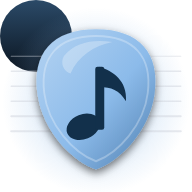
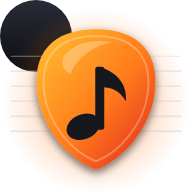
Add files via upload

diff --git a/geigenpult.html b/geigenpult.html
@@ -82,6 +82,13 @@
   input[type=checkbox],input[type=radio]{width:18px;height:18px;accent-color:var(--accent)}
   .notice{padding:10px 12px;border-radius:8px;border:1px solid var(--line);background:var(--bg);font-size:.9rem;overflow-wrap:anywhere}
   .notice.bad{border-color:var(--bad);color:var(--bad)}
+  .exgoal{padding:10px 12px;border-radius:8px;border:1px solid var(--accent);background:var(--surface);display:grid;gap:6px}
+  .exgoal .t{font-weight:600}.exgoal .dots{display:flex;gap:6px;flex-wrap:wrap}
+  .exgoal .dot{width:26px;height:26px;border-radius:50%;border:2px solid var(--line);display:grid;place-items:center;font-size:.8rem;font-weight:700}
+  .exgoal .dot.on{background:var(--ok);border-color:var(--ok);color:var(--on-accent)}
+  .exgoal .w{font-size:.88rem;color:var(--muted)}
+  .exgoal.done{border-color:var(--ok)}
+  body.pult .exgoal{display:none!important}
   .grp{display:flex;align-items:center;gap:8px;min-width:0;flex-wrap:wrap}
   .grp .lab,.lab{font-size:.8rem;color:var(--muted)}
   .settings{display:grid;grid-template-columns:repeat(auto-fit,minmax(230px,1fr));gap:12px 18px}
@@ -218,7 +225,9 @@
   /* Vollbild-Pult */
   body.pult{overflow:hidden;padding-inline:0}
   body.pult .wrap{max-width:none;padding:0;gap:0}
-  body.pult .wrap>*:not(#sec-player){display:none!important}
+  body.pult .wrap>*:not(#tab-play){display:none!important}
+  body.pult #tab-play>*:not(#sec-player){display:none!important}
+  body.pult #mknav,body.pult #mksub{display:none!important}
   body.pult #sec-player>*:not(#paper):not(#hud):not(#msg):not(#pult-exit){display:none!important}
   body.pult #paper{position:fixed;inset:0;z-index:50;margin:0;border:0;border-radius:0;box-shadow:none;padding:14px 18px 84px;min-height:0;overflow:hidden}
   body.pult #stage{transition:none}
@@ -228,7 +237,7 @@
   body.pult #hud .bpm{min-width:6em}
   body.pult .adv{display:none}
   body.pult .pultonly{display:flex}
-  body.pult #msg:not([hidden]){display:block;position:fixed;top:12px;left:50%;transform:translateX(-50%);z-index:70;width:max-content;max-width:min(680px,calc(100vw - 120px));box-shadow:0 4px 16px rgba(0,0,0,.25);background:var(--surface);color:var(--ink)}
+  body.pult #msg:not([hidden]){display:block;position:fixed;top:12px;left:12px;z-index:70;width:max-content;max-width:min(680px,calc(100vw - 190px));box-shadow:0 4px 16px rgba(0,0,0,.25);background:var(--surface);color:var(--ink)}
   body.pult #msg.bad{color:var(--bad)}
   #pult-exit{display:none}
   body.pult #pult-exit{display:inline-flex;position:fixed;top:12px;right:12px;z-index:61;transition:opacity .25s}
@@ -484,6 +493,7 @@
     <p class="hint" id="modehint"></p>
     <div class="legend" id="legend" hidden><span class="h">getroffen</span><span class="u">zu hoch</span><span class="d">zu tief</span><span class="r">erst nach Fehlversuch</span><span class="m">verfehlt</span></div>
     <div id="msg" class="notice" hidden></div>
+    <div id="exgoal" class="exgoal" hidden></div>
     <details class="card" id="fbcard" open>
       <summary>Griffbrett: wo spiele ich diesen Ton?</summary>
       <div id="fb-svg"></div>
@@ -1853,7 +1863,7 @@ function relayout(force){
   if(force||Math.abs($('#osmd').clientWidth-S.renderW)>30)renderScore(q);
   else{layoutPages();S.viewKey='';S.lastSys=-1;if(S.events.length)drawCursor(S.events[S.idx].q)}
 }
-window.addEventListener('resize',function(){clearTimeout(rt);rt=setTimeout(function(){relayout(false)},300)});
+window.addEventListener('resize',function(){clearTimeout(rt);rt=setTimeout(function(){if(typeof hudPad==='function')hudPad();relayout(false)},300)});
 
 /* ───────── Vollbild-Pult ───────── */
 var hudT=0;
@@ -1878,8 +1888,16 @@ function setPgMode(m){
 $('#pg-mode').onclick=function(){setPgMode(S.pgMode==='page'?'scroll':'page')};
 $('#pgsel').addEventListener('change',function(e){setPgMode(e.target.value)});
 
+function hudPad(){
+  var p=$('#paper'),h=$('#hud');
+  if(!S.pult){p.style.paddingBottom='';return false}
+  var want=Math.ceil(h.getBoundingClientRect().height)+26+'px';
+  if(p.style.paddingBottom===want)return false;
+  p.style.paddingBottom=want;return true;
+}
+if(window.ResizeObserver){try{new ResizeObserver(function(){if(hudPad()){clearTimeout(hudPad.t);hudPad.t=setTimeout(function(){relayout(false)},120)}}).observe($('#hud'))}catch(e){}}
 function afterPultChange(){
-  hudPoke();
+  hudPad();hudPoke();
   setTimeout(function(){relayout(true)},260);
 }
 async function enterPult(){
@@ -2308,7 +2326,7 @@ applyKey();
 
 /* ───────── Lernen: Fortschritt, Lehrplan, Quiz, Tagesplan, Coach (nur App-Version) ───────── */
 var P=lsGet('gp.prog',{});
-['lessons','badges','quiz','goalDone','dq','best','rec','sc'].forEach(function(k){if(!P[k]||typeof P[k]!=='object')P[k]={}});
+['lessons','badges','quiz','goalDone','dq','best','rec','sc','reps'].forEach(function(k){if(!P[k]||typeof P[k]!=='object')P[k]={}});
 P.xp=P.xp||0;P.goal=P.goal||15;
 function saveP(){lsSet('gp.prog',P)}
 var LVT=['Leersaite','Anfänger','Tonleiter-Läufer','Taktgeber','Saitenspringer','Bogenführer','Melodiespieler','Tonartenkenner','Ensemble-Geiger','Virtuose in spe'];
@@ -2437,6 +2455,21 @@ var LESSONS=[
 ];
 function lessonBy(id){return LESSONS.find(function(l){return l.id===id})}
 function nextLesson(){return LESSONS.find(function(l){return !P.lessons[l.id]})}
+function exGoal(id){var l=lessonBy(id);return (l&&l.goal)||3}
+function exBanner(id,msg,fin){
+  var el=$('#exgoal');if(!el)return;
+  if(!id){el.hidden=true;return}
+  var l=lessonBy(id),g=exGoal(id),n=Math.min(g,P.reps[id]||0),done=!!P.lessons[id],h='';
+  for(var i=0;i<g;i++)h+='<span class="dot'+((done||i<n)?' on':'')+'">'+((done||i<n)?'✓':(i+1))+'</span>';
+  var nx=nextLesson();
+  el.className='exgoal'+(done?' done':'');
+  el.innerHTML='<div class="t">'+(done?'✓ Lektion geschafft: ':'Aufgabe: ')+esc(l.t)+'</div>'
+   +'<div class="dots" aria-label="'+(done?g:n)+' von '+g+' Durchgängen">'+h+'</div>'
+   +'<div class="w">'+esc(msg||(done?'Gut gemacht.':'Spiele die Übung '+g+'-mal sauber durch (mindestens die Hälfte der Töne beim ersten Versuch richtig). Fertig: '+n+' von '+g+'.'))+'</div>'
+   +(done&&nx?'<div class="row"><button class="btn small primary" type="button" id="ex-next" data-l="'+nx.id+'">Nächste Lektion: '+esc(nx.t)+'</button></div>':'')
+   +(done&&!nx?'<div class="w">Das war die letzte Lektion. Stark!</div>':'');
+  el.hidden=false;
+}
 function completeLesson(id,half,why){
   if(P.lessons[id]||!lessonBy(id))return false;
   P.lessons[id]={d:today(),half:!!half};saveP();addXp(half?20:40,'Lektion: '+lessonBy(id).t);return true;
@@ -2466,7 +2499,8 @@ async function loadExercise(spec,ctx){
   S.exercise={spec:spec,ctx:ctx||{}};
   if(S.bpm!==ex.bpm&&typeof setTempo==='function'){try{setTempo(ex.bpm)}catch(e){}}
   setMode((ctx&&ctx.mode)||'wait');
-  note($('#msg'),'Übung geladen: '+ex.title+'. Schalte das Mikro ein und spiele. Ab ca. 50 % gleich richtig (Warten) oder 60 % Treffer (Mitspielen) gilt sie als geschafft.');
+  note($('#msg'),'Übung geladen: '+ex.title+'. Schalte das Mikro ein und spiele. Ab ca. 50 % gleich richtig (Warten) oder 60 % Treffer (Mitspielen) zählt ein Durchgang.');
+  exBanner(ctx&&ctx.lessonId);
   var sp=$('#sec-player');if(sp&&sp.scrollIntoView)sp.scrollIntoView({behavior:'smooth',block:'start'});
 }
 function exercisePassed(){
@@ -2486,10 +2520,20 @@ function progOnRun(ended){
     if(pct>(P.rec.hit||0)){P.rec.hit=pct;saveP();checkBadges()}
   }
   var ex=S.exercise;
-  if(!ex||!ended||!exercisePassed())return;
+  if(!ex||!ended)return;
   var c=ex.ctx||{};
+  if(!exercisePassed()){if(c.lessonId)exBanner(c.lessonId,'Dieser Durchgang zählt noch nicht. Ziel: mindestens die Hälfte der Töne gleich beim ersten Mal richtig. Spiele ihn einfach nochmal, ruhig langsamer.');return}
   if(ex.spec.gen==='scale'&&!P.sc[ex.spec.key+(ex.spec.form||'')]){P.sc[ex.spec.key+(ex.spec.form||'')]=1;saveP()}
-  if(c.lessonId)completeLesson(c.lessonId,false);
+  if(c.lessonId){
+    var lid=c.lessonId;
+    if(!P.lessons[lid]){
+      P.reps[lid]=(P.reps[lid]||0)+1;saveP();
+      var gl=exGoal(lid);
+      if(P.reps[lid]>=gl){completeLesson(lid,false);toast('Lektion geschafft: '+lessonBy(lid).t);exBanner(lid)}
+      else{toast('Durchgang '+P.reps[lid]+' von '+gl+' geschafft');exBanner(lid,'Durchgang '+P.reps[lid]+' von '+gl+' geschafft. Spiele die Übung nochmal ('+(gl-P.reps[lid])+' noch).');S.exercise=ex;
+        render();return}
+    }else exBanner(lid)
+  }
   if(c.planIdx!=null&&P.plan&&P.plan.items[c.planIdx]&&!P.plan.items[c.planIdx].done){P.plan.items[c.planIdx].done=true;saveP();addXp(10,'Plan-Punkt erledigt')}
   S.exercise=null;checkBadges();render();
 }
@@ -2574,7 +2618,7 @@ var curLesson=null;
 function openLesson(id){
   var l=lessonBy(id);if(!l)return;curLesson=id;
   $('#lesson').hidden=false;$('#lesson-title').textContent=l.t;$('#lesson-theory').innerHTML=l.th;
-  $('#lesson-state').textContent=P.lessons[id]?'Abgeschlossen am '+P.lessons[id].d.split('-').reverse().join('.')+'.':'Quiz machen und die Übung spielen, dann ist die Lektion geschafft.';
+  $('#lesson-state').textContent=P.lessons[id]?'Abgeschlossen am '+P.lessons[id].d.split('-').reverse().join('.')+'.':'So wird die Lektion geschafft: Übung '+exGoal(id)+'-mal sauber spielen (bisher '+Math.min(exGoal(id),P.reps[id]||0)+'). Das Quiz hilft beim Lernen, ist aber freiwillig.';
   $('#les-manual').hidden=!!P.lessons[id];
   $('#lesson').scrollIntoView({behavior:'smooth',block:'nearest'});
 }
@@ -2582,6 +2626,7 @@ $('#lesson-close').addEventListener('click',function(){$('#lesson').hidden=true}
 $('#les-quiz').addEventListener('click',function(){startQuiz({lesson:curLesson})});
 $('#les-ex').addEventListener('click',function(){var l=lessonBy(curLesson);loadExercise(l.ex,{lessonId:l.id})});
 $('#les-manual').addEventListener('click',function(){if(completeLesson(curLesson,true))openLesson(curLesson)});
+document.addEventListener('click',function(e){var b=e.target.closest&&e.target.closest('#ex-next');if(!b)return;if(typeof gpTab==='function')gpTab('ueben');openLesson(b.dataset.l)});
 $('#lesson-list').addEventListener('click',function(e){var b=e.target.closest('button');if(b)openLesson(b.dataset.l)});
 
 /* ── Tagesplan ── */
@@ -2966,7 +3011,7 @@ songRender();
   }).catch(function(){
     note($('#msg'),'Notenanzeige und Klang konnten nicht geladen werden. Dafür wird einmal eine Internetverbindung gebraucht. Der Eingang mit Stimmgerät funktioniert trotzdem.',true);
   });
-  window.__gp2={liveBub:(typeof liveBub==='function'?liveBub:null),drawCursor:drawCursor,S:S,inp:inp,CFG:CFG,P:(typeof P!=='undefined'?P:null)};
+  window.__gp2={liveBub:(typeof liveBub==='function'?liveBub:null),drawCursor:drawCursor,S:S,inp:inp,CFG:CFG,P:(typeof P!=='undefined'?P:null),L:(typeof progOnRun==='function'?{progOnRun:progOnRun,loadExercise:loadExercise,openLesson:openLesson,nextLesson:nextLesson}:null)};
 })();
 
 })();

diff --git a/sw.js b/sw.js
@@ -1,5 +1,5 @@
 /* Service Worker: App-Hülle offline, Bibliotheken (Tone, OSMD, PDF.js, Schriften) nach dem ersten Laden aus dem Cache. */
-const V = 'musikkoje-v10';
+const V = 'musikkoje-v12';
 const SHELL = ['./', 'index.html', 'geigenpult.html', 'riffkoje.html', 'theorie.html', 'akkorde.html', 'tabs.html', 'whistle.html', 'einstellungen.html', 'shared.js', 'manifest.webmanifest', 'icon-192.png', 'icon-512.png', 'icon-maskable-512.png', 'apple-touch-icon.png', 'icon.svg'];
 const CDN = ['cdnjs.cloudflare.com', 'cdn.jsdelivr.net', 'unpkg.com', 'fonts.googleapis.com', 'fonts.gstatic.com'];
 

diff --git a/README.md b/README.md
@@ -16,8 +16,12 @@ Jede Person hat ein eigenes Profil mit eigenem Fortschritt, eigenen Stücken und
 - **Xylophon** (Theorie, Entdecker): Farbige Klangstäbe, freies Spiel und vier Lieder zum Nachspielen für die Zwillinge.
 - **Adventskalender** auf der Startseite vom 1. bis 24. Dezember. Zum Ausprobieren: `index.html?advent=12` anhängen.
 
+## Neu: Lektionen mit Ziel, Vollbild-Pult repariert
+- **Ziel pro Übung:** Jede Lektions-Übung zeigt jetzt „Aufgabe: … 1 2 3“. Ein Durchgang zählt, wenn mindestens die Hälfte der Töne gleich beim ersten Mal richtig ist. Nach 3 gezählten Durchgängen ist die Lektion geschafft, dann erscheint der Knopf „Nächste Lektion“. Das Quiz ist freiwillig.
+- **Vollbild-Pult:** Die Steuerleiste verdeckt die letzte Notenzeile nicht mehr (Seitenaufteilung richtet sich nach der Höhe der Leiste). Das Notenblatt war seit der Aufteilung in Üben/Spielen/Werkzeuge im Vollbild unsichtbar. Jetzt füllt es Hoch- und Querformat, und die Hinweisbox verdeckt „Pult verlassen“ nicht mehr.
+
 ## Neu: Farbstil wie die Knotenpunkt-Praxis
-Alle Bereiche, die Navigationsleiste und das App-Icon nutzen jetzt die Farben der Praxis-App: Marineblau, warmes Sandweiß, gedämpftes Grün; im Dunkelmodus Blaugrau mit hellblauem Akzent.
+Alle Bereiche und die Navigationsleiste nutzen jetzt die Farben der Praxis-App: Marineblau, warmes Sandweiß, gedämpftes Grün; im Dunkelmodus Blaugrau mit hellblauem Akzent.
 
 ## Neu: Einstellungen und Live-Anzeige beim Üben
 - **Einstellungen:** ⚙ oben rechts → eigene Seite `einstellungen.html`. Dort stehen Mikrofon-Quelle (Auswahlliste aller Eingänge, mit Hinweis, welche Quelle gerade wirklich benutzt wird), ein Mikrofon-Test mit Pegelanzeige, erkanntem Ton und Cent-Nadel, Empfindlichkeit, Kammerton (A4), Hell/Dunkel, Sicherung/Geräte-Abgleich und Profile.
